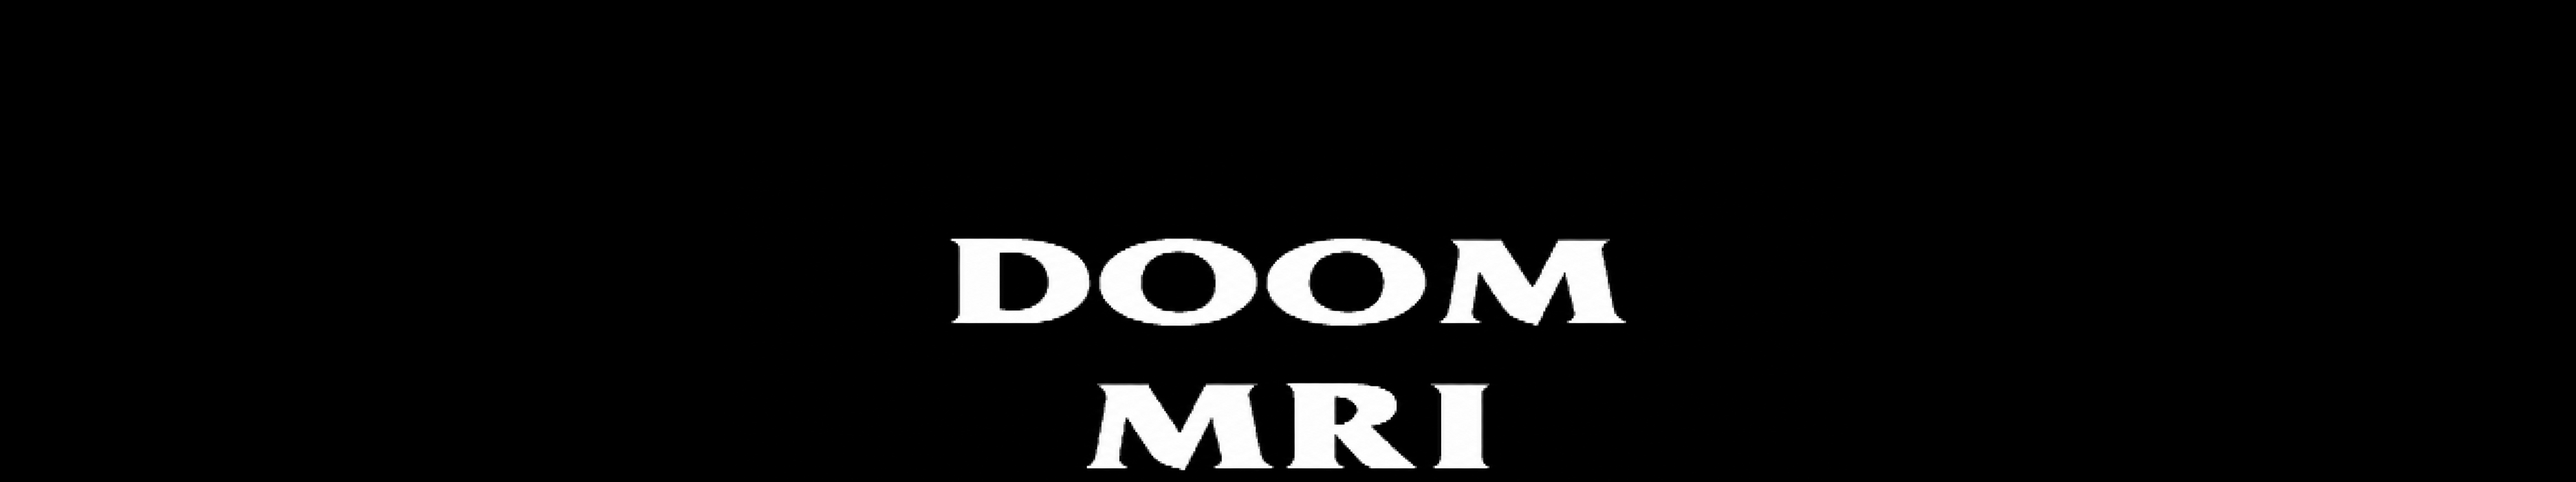
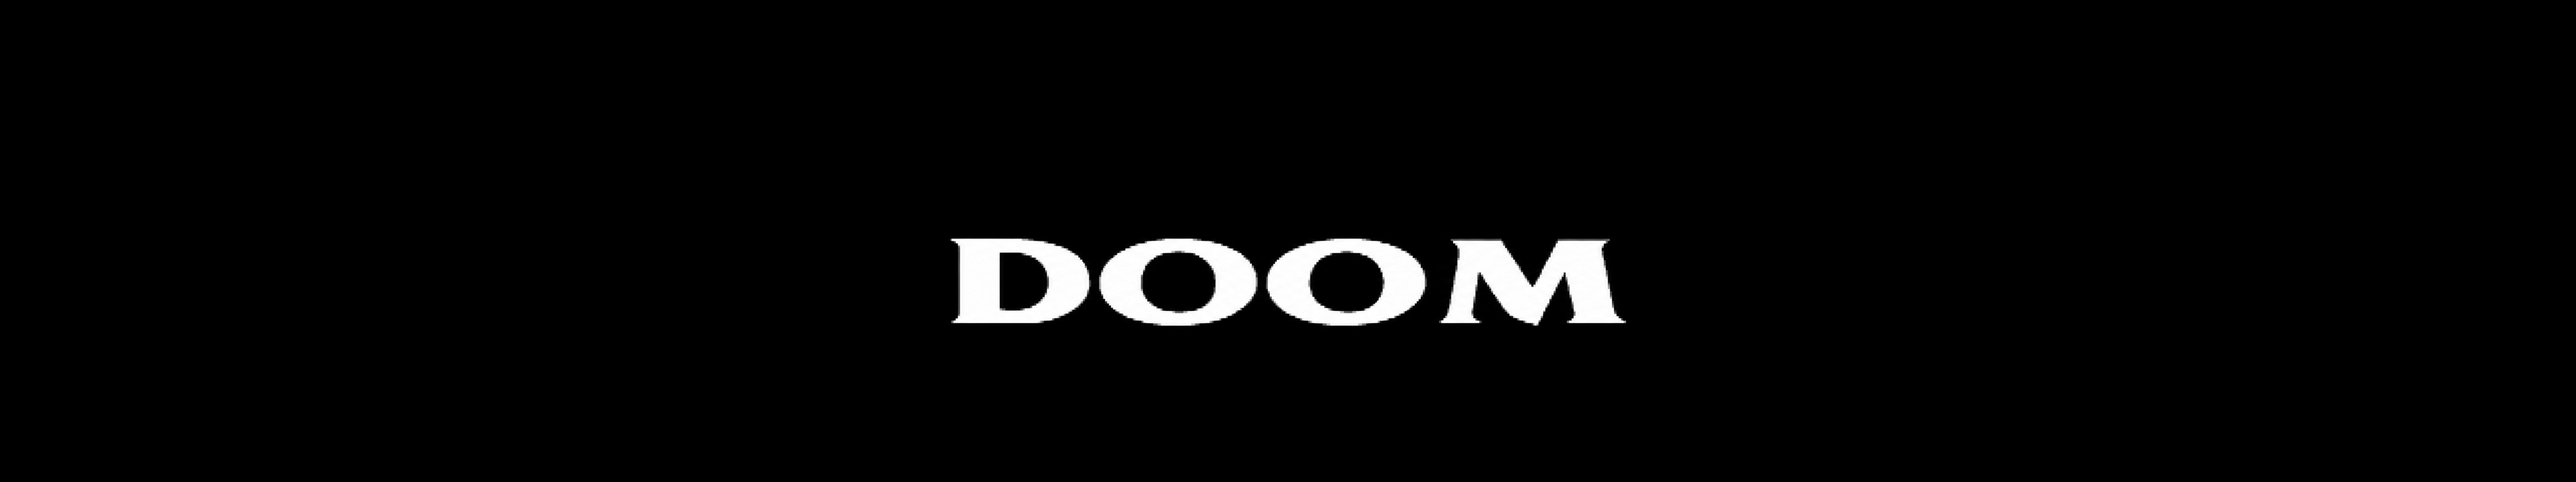
🐛 Keep each name redraw to its own name, not its neighbours in the upload

Changed region(s): [[0.4035, 0.7858, 0.5898, 0.9974]]

diff --git a/vividexp/remake/tools/align_art.py b/vividexp/remake/tools/align_art.py
@@ -370,6 +370,15 @@ def write_redraw(name, red, p, W, H, out_path=None):
         FW, FH = px.shape[1], px.shape[0]
         ow, oh = int(round(FW * k_out)), int(round(FH * SCREEN_ASPECT * k_out))
         out = render(img, (ow, oh), p, (FW / ow, FH / oh), (0, 0, 0), origin=(-CROP_X0, -y0))
+        # only the name's own crop: the stacked upload's other names lie above and below it
+        y1 = name_rows(px)[1]
+        a = np.asarray(out).copy()
+        r0, r1 = int(np.floor(y0 * oh / FH)), int(np.ceil(y1 * oh / FH))
+        c0, c1 = int(np.floor(CROP_X0 * ow / FW)), int(np.ceil((CROP_X0 + CROP_W) * ow / FW))
+        keep = np.zeros(a.shape[:2], bool)
+        keep[r0:r1, c0:c1] = True
+        a[~keep] = 0
+        out = Image.fromarray(a)
     else:
         ow, oh = int(round(W * k_out)), int(round(H * SCREEN_ASPECT * k_out))
         out = render(img, (ow, oh), p, (W / ow, H / oh), (0, 0, 0))
